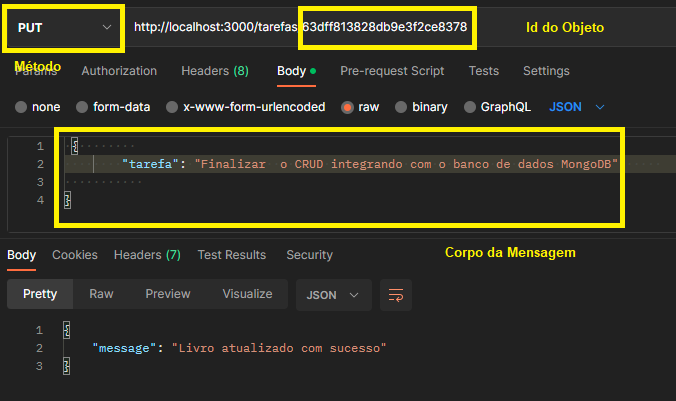
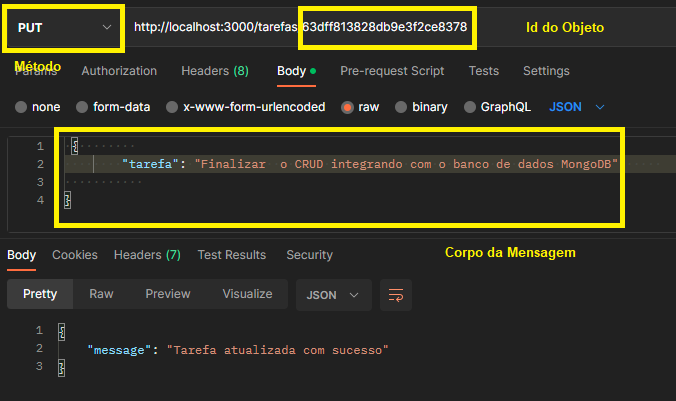
Pequenos Ajustes Tecnicos

Changed region(s): [[0.1243, 0.8379, 0.5902, 0.8978], [0.0621, 0.8978, 0.1243, 0.9277], [0.0621, 0.808, 0.1243, 0.8379]]

diff --git a/source/controllers/tarefasControllers.js b/source/controllers/tarefasControllers.js
@@ -39,7 +39,7 @@ class tarefasController {
         //console.log(id);
         tarefas.findByIdAndUpdate(id, { $set: req.body }, (err) => {
             if (!err) {
-                res.status(200).send({ message: "Livro atualizado com sucesso" });
+                res.status(200).send({ message: "Tarefa atualizada com sucesso" });
             } else {                
                 res.status(500).send({ message: err.message });
 
@@ -53,7 +53,7 @@ class tarefasController {
             if(err) {
                 res.status(500).send({message:err.message});
             }else {
-                res.status(200).send({message:`Livro removido ${id}`});
+                res.status(200).send({message:`Tarefa removida ${id}`});
             }
         })
     }
